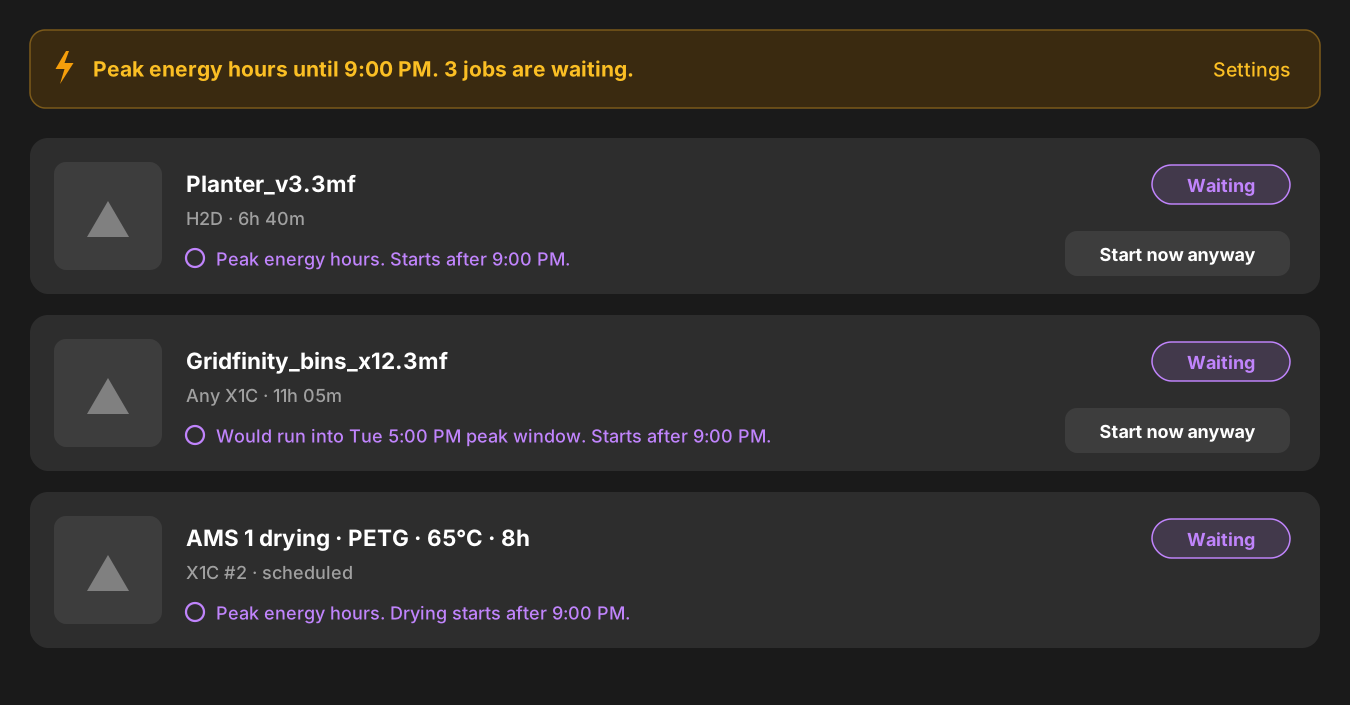
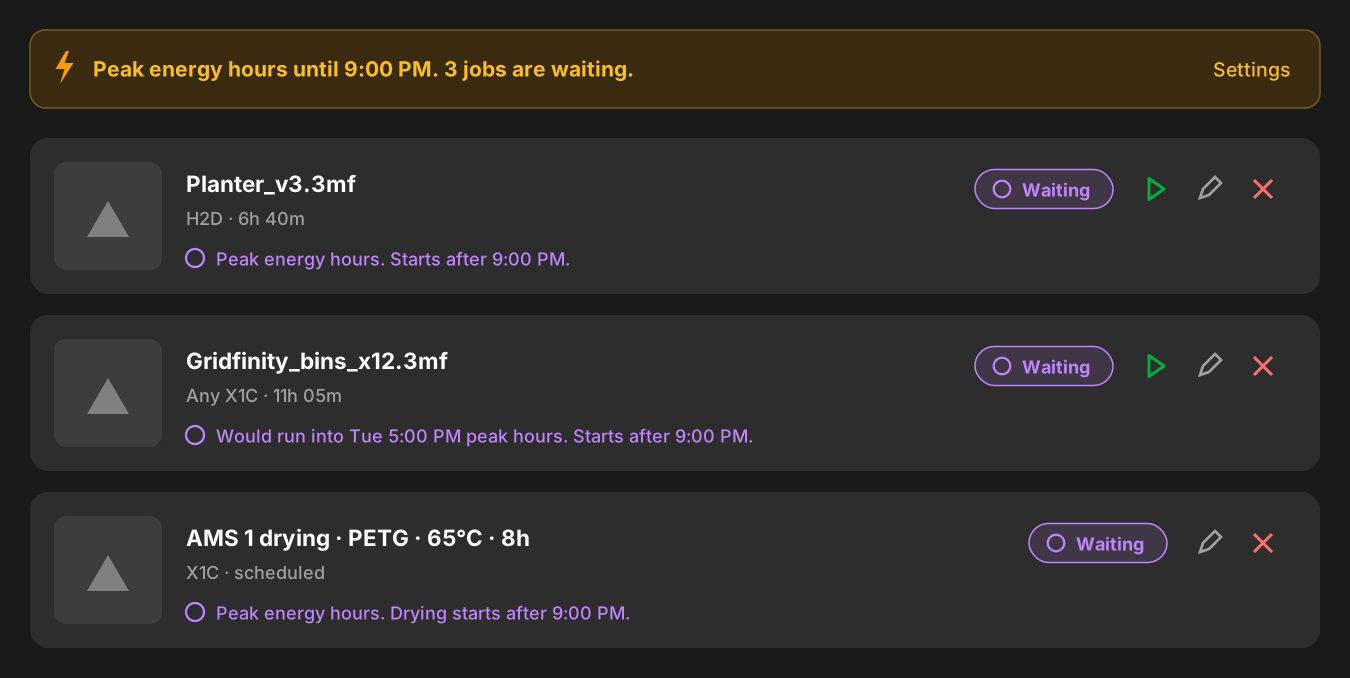
docs(#2639): apply design review
- American spelling throughout
- Settings: rename the Smart Plugs tab to Energy, with Smart Plugs and
  Peak Energy Scheduling sections
- Weekdays are 0 = Sunday (JS getDay order); prototype and tests updated
- New mockups: Home Assistant entity picker, Home Assistant queue banner
  with no end time, start-during-peak confirm dialog
- Override uses the existing start icon button and standard Button pair
- Time zone: server TZ only; drop the open question

diff --git a/backend/tests/unit/services/test_peak_energy_2639.py b/backend/tests/unit/services/test_peak_energy_2639.py
@@ -24,7 +24,8 @@ from backend.app.services.peak_energy import (
 )
 
 DENVER = ZoneInfo("America/Denver")
-WEEKDAYS = frozenset(range(5))
+# 0 = Sunday, so Monday-Friday is 1-5.
+WEEKDAYS = frozenset(range(1, 6))
 WEEKDAY_EVENINGS = PeakSchedule(windows=(PeakWindow(WEEKDAYS, time(17), time(21)),), zone=DENVER)
 
 
@@ -53,7 +54,7 @@ class TestActiveWindow:
         assert WEEKDAY_EVENINGS.next_start(local(*FRI, 22)) == local(2026, 11, 23, 17)
 
     def test_overnight_window_spans_midnight(self):
-        overnight = PeakSchedule(windows=(PeakWindow(frozenset({0}), time(22), time(6)),), zone=DENVER)
+        overnight = PeakSchedule(windows=(PeakWindow(frozenset({1}), time(22), time(6)),), zone=DENVER)
         # Tuesday 02:00 is inside Monday's 22:00-06:00 window.
         assert overnight.active_until(local(2026, 11, 17, 2)) == local(2026, 11, 17, 6)
 
@@ -65,7 +66,7 @@ class TestActiveWindow:
         assert split.active_until(local(*MON, 15)) == local(*MON, 21)
 
     def test_equal_start_and_end_is_a_full_day(self):
-        all_monday = PeakSchedule(windows=(PeakWindow(frozenset({0}), time(0), time(0)),), zone=DENVER)
+        all_monday = PeakSchedule(windows=(PeakWindow(frozenset({1}), time(0), time(0)),), zone=DENVER)
         assert all_monday.active_until(local(*MON, 12)) == local(2026, 11, 17, 0)
 
 
@@ -82,7 +83,7 @@ class TestDaylightSaving:
 
     def test_window_inside_the_spring_forward_gap_still_has_positive_length(self):
         # 02:00-03:00 does not exist on 2026-03-08 in Denver.
-        gap = PeakSchedule(windows=(PeakWindow(frozenset({6}), time(2), time(4)),), zone=DENVER)
+        gap = PeakSchedule(windows=(PeakWindow(frozenset({0}), time(2), time(4)),), zone=DENVER)
         [(start, end)] = gap.intervals(local(2026, 3, 8, 0), local(2026, 3, 8, 12))
         assert end > start
 
@@ -160,9 +161,20 @@ class TestEmptySchedule:
         assert decide_drying_start(empty, now) == Allow()
 
 
+class TestWeekdayNumbering:
+    def test_zero_is_sunday(self):
+        sunday_only = PeakSchedule(windows=(PeakWindow(frozenset({0}), time(9), time(10)),), zone=DENVER)
+        assert sunday_only.active_until(local(2026, 11, 22, 9, 30)) == local(2026, 11, 22, 10)
+        assert sunday_only.active_until(local(*MON, 9, 30)) is None
+
+    def test_six_is_saturday(self):
+        saturday_only = PeakSchedule(windows=(PeakWindow(frozenset({6}), time(9), time(10)),), zone=DENVER)
+        assert saturday_only.active_until(local(*SAT, 9, 30)) == local(*SAT, 10)
+
+
 class TestParseWindows:
     def test_parses_the_setting_format(self):
-        windows = parse_windows('[{"days": [0, 1, 2, 3, 4], "start": "17:00", "end": "21:00"}]')
+        windows = parse_windows('[{"days": [1, 2, 3, 4, 5], "start": "17:00", "end": "21:00"}]')
         assert windows == (PeakWindow(WEEKDAYS, time(17), time(21)),)
 
     def test_empty_string_means_no_windows(self):

diff --git a/backend/app/services/peak_energy.py b/backend/app/services/peak_energy.py
@@ -51,7 +51,9 @@ class DeferReason(StrEnum):
 class PeakWindow:
     """One recurring window: on each of ``days``, from ``start`` to ``end``.
 
-    ``days`` are Python weekdays (0 = Monday) on which the window *starts*.
+    ``days`` are the weekdays on which the window *starts*, 0 = Sunday through
+    6 = Saturday (the JavaScript ``Date.getDay()`` and cron numbering, which
+    the frontend already uses; Python's ``weekday()`` starts at Monday).
     ``end <= start`` means it ends the next day (22:00-06:00); ``end == start``
     means a full 24 hours.
     """
@@ -68,10 +70,10 @@ class PeakWindow:
 
     def occurrence_on(self, day: date, zone: tzinfo) -> tuple[datetime, datetime] | None:
         """The UTC interval this window covers when it starts on local ``day``."""
-        if day.weekday() not in self.days:
+        if sunday_first_weekday(day) not in self.days:
             return None
         end_day = day if self.end > self.start else day + timedelta(days=1)
-        # Combine in the local zone, then normalise through UTC. A wall time
+        # Combine in the local zone, then normalize through UTC. A wall time
         # that does not exist (spring-forward gap) comes out shifted by the
         # gap; an ambiguous one (fall-back) takes its first occurrence. Either
         # way the window keeps its wall-clock meaning on DST days.
@@ -81,6 +83,11 @@ class PeakWindow:
 
 
 Interval = tuple[datetime, datetime]
+
+
+def sunday_first_weekday(day: date) -> int:
+    """0 = Sunday ... 6 = Saturday."""
+    return (day.weekday() + 1) % 7
 
 
 def _merge(intervals: Iterable[Interval]) -> list[Interval]:
@@ -211,7 +218,8 @@ def should_stop_drying(schedule: PeakSchedule, now: datetime) -> bool:
 def parse_windows(raw: str) -> tuple[PeakWindow, ...]:
     """Parse the ``peak_energy_windows`` setting.
 
-    Format: a JSON list of ``{"days": [0-6, ...], "start": "HH:MM", "end": "HH:MM"}``.
+    Format: a JSON list of ``{"days": [0-6, ...], "start": "HH:MM", "end": "HH:MM"}``
+    with 0 = Sunday.
     An empty string means no windows. Raises ValueError with a message fit for
     a 422 response on anything malformed.
     """
@@ -229,7 +237,7 @@ def parse_windows(raw: str) -> tuple[PeakWindow, ...]:
             raise ValueError(f"window {i}: must be an object")
         days = entry.get("days")
         if not isinstance(days, list) or not all(isinstance(d, int) and not isinstance(d, bool) for d in days):
-            raise ValueError(f"window {i}: days must be a list of weekday numbers 0-6")
+            raise ValueError(f"window {i}: days must be a list of weekday numbers 0-6 (0 = Sunday)")
         windows.append(
             PeakWindow(
                 days=frozenset(days),

diff --git a/docs/design/peak-energy-scheduling.md b/docs/design/peak-energy-scheduling.md
@@ -22,9 +22,9 @@ hand.
    next window, until a gap it fits into.
 3. AMS drying (scheduled, queue auto-drying and humidity-triggered) does not
    start during a window, and can optionally be stopped when one begins and
-   finished afterwards.
+   finished afterward.
 4. The user always sees why a job is waiting and until when, and can override
-   it per job ("Start now anyway").
+   it per job with the queue's existing start button.
 5. Off by default; with it off, nothing behaves differently.
 
 ## Non-goals (v1)
@@ -38,7 +38,7 @@ hand.
 - Different schedules per printer or per location. One schedule for the whole
   install. (Open question 4.)
 - Choosing the cheapest slot from a price forecast. v1 is "avoid windows", not
-  "optimise cost".
+  "optimize cost".
 - Prints started outside the queue (from Bambu Studio, Handy, or the printer's
   screen). Bambuddy does not gate those today and won't start to.
 
@@ -55,10 +55,10 @@ hand.
 - *As a user who dries filament overnight*, my 8-hour drying run scheduled for
   6 pm starts at 9 pm. A drying run in progress at 5 pm stops and the remaining
   hours run after 9 pm.
-- *As a user in a hurry*, I press "Start now anyway" on a held job and it starts
+- *As a user in a hurry*, I press the start button on a held job, confirm, and it starts
   on the next scheduler pass.
 
-## Behaviour
+## Behavior
 
 ### Defining windows
 
@@ -71,8 +71,8 @@ A window is `{days, start, end}` where `days` are the weekdays the window
   17:00-21:00 behaves as one 14:00-21:00 period.
 - Windows are interpreted in the server's time zone (`TZ`, via
   `utils.local_time.local_zone()`), which is what the rest of Bambuddy already
-  uses for calendar reasoning. The settings card shows the zone so a container
-  without `TZ` (UTC) is obvious. (Open question 5.)
+  uses for calendar reasoning. There is no separate time zone setting. The
+  Energy tab shows the zone so a container without `TZ` (UTC) is obvious.
 - DST: windows keep their wall-clock meaning. A 17:00 window is 17:00 local on
   both sides of a change. A window starting inside a spring-forward gap is
   shifted by the gap; an ambiguous fall-back time takes its first occurrence.
@@ -107,10 +107,10 @@ pending item that is not `manual_start` and not `ignore_peak_energy`:
 
 - `POST /queue/{id}/start` on a held item during a window answers `409` with
   `code=peak_energy` and the window's end time, the same pattern as the
-  existing filament-deficit check. The UI then asks: **Start now anyway** or
-  **Start after peak**. "Anyway" retries with `ignore_peak_energy=true`, which
-  sets the item's new `ignore_peak_energy` flag; "after peak" just leaves it
-  queued.
+  existing filament-deficit check. The UI shows a confirm dialog with the
+  standard **Start after peak** (secondary) and **Start now** (primary)
+  buttons. "Start now" retries with `ignore_peak_energy=true`, which sets the
+  item's new `ignore_peak_energy` flag; "Start after peak" leaves it queued.
 - Items created by an explicit "print now" action on the printer card
   (`cleanup_library_after_dispatch`) are created with `ignore_peak_energy=true`,
   because the user asked for that printer, now. (Open question 2.)
@@ -186,7 +186,7 @@ Settings (key/value rows, like the existing drying and energy settings):
 |---|---|---|
 | `peak_energy_enabled` | bool | `false` |
 | `peak_energy_source` | `"windows" \| "homeassistant"` | `"windows"` |
-| `peak_energy_windows` | JSON string, list of `{"days":[0-6], "start":"HH:MM", "end":"HH:MM"}` (0 = Monday) | `""` |
+| `peak_energy_windows` | JSON string, list of `{"days":[0-6], "start":"HH:MM", "end":"HH:MM"}` (0 = Sunday, as JS `Date.getDay()`) | `""` |
 | `peak_energy_ha_entity` | str | `""` |
 | `peak_energy_ha_states` | str, comma-separated | `"peak,on"` |
 | `peak_energy_print_policy` | `"start_outside" \| "finish_before"` | `"start_outside"` |
@@ -217,33 +217,64 @@ No new table. No change to `scheduled_dryings`.
 - `waiting_reason`: the queue page currently shows this as raw text. For peak
   holds the scheduler writes a code, `peak_energy:<reason>:<iso until>`
   (`in_peak_window` or `would_overlap_peak`), and the frontend renders a
-  translated, localised message. Scheduled drying already uses short codes.
+  translated, localized message. Scheduled drying already uses short codes.
 
 ## UI
 
-### Settings: a "Peak energy hours" card next to "Auto-Drying"
+### Settings: rename "Smart Plugs" to "Energy"
 
-![Settings card mockup](peak-energy-scheduling/settings-card.png)
+The existing **Smart Plugs** tab becomes **Energy** and holds two sections:
+**Smart Plugs** (unchanged) and the new **Peak Energy Scheduling**. Power and
+cost belong together, and the plugs are what most users meter peak hours with.
+The tab id changes from `plugs` to `energy`; `?tab=plugs` and the settings
+search entries keep working as aliases so old links don't break.
 
-- One toggle to enable, the server time zone shown next to the windows.
-- Window rows with weekday chips and two 24-hour time inputs, `+ Add window`,
-  and a week strip that draws the merged result, so an overnight window or an
-  overlap is obvious at a glance.
+![Energy tab, manual windows](peak-energy-scheduling/energy-tab.png)
+
+- One toggle to enable, and a source selector: **Time windows** or
+  **Home Assistant**.
+- Window rows with weekday chips in Sunday-first order (S M T W T F S) and two
+  24-hour time inputs, `+ Add window`, and a week strip that draws the merged
+  result, so an overnight window or an overlap is obvious at a glance. The
+  server time zone is shown next to the windows.
 - The print policy as two radios with the margin under the second.
 - Two drying toggles.
-- With the Home Assistant source (not drawn), the window editor is replaced by
-  an entity picker and a "states that mean peak" field, and the
-  "finish before" radio is disabled with a hint.
+
+![Energy tab, Home Assistant source](peak-energy-scheduling/energy-tab-home-assistant.png)
+
+- With the Home Assistant source, the window editor is replaced by an entity
+  search that works like the one in the Add Smart Plug dialog (friendly name,
+  entity id and current state), limited to `select`, `input_select`,
+  `binary_sensor` and `input_boolean` entities. "States that mean peak" shows
+  the entity's own options as checkboxes (`on` for a binary entity). A live
+  line shows the entity's current state and whether jobs can start.
+- The "finish before" radio is disabled with a hint, because Home Assistant
+  can't tell us when the next peak starts.
 
 ### Queue: why a job waits, and the override
 
-![Queue mockup](peak-energy-scheduling/queue-waiting.png)
+![Queue, manual windows](peak-energy-scheduling/queue-waiting.png)
 
 - A banner while a window is active: "Peak energy hours until 9:00 PM. 3 jobs
   are waiting."
 - Held jobs use the existing purple **Waiting** badge with a translated reason
-  and time, and a **Start now anyway** button.
+  and time.
+- The override is the row's existing ▶ start icon button, unchanged in style.
+  During peak it opens the confirm dialog below instead of starting at once.
 - Held scheduled drying runs show the same reason on their card.
+
+![Queue, Home Assistant source](peak-energy-scheduling/queue-waiting-home-assistant.png)
+
+With the Home Assistant source there is no known end time, so the banner reads
+"Peak energy hours, according to Home Assistant. 3 jobs are waiting." and each
+badge says "Starts when Home Assistant reports off-peak" instead of a time.
+
+![Start during peak dialog](peak-energy-scheduling/start-during-peak-dialog.png)
+
+The dialog uses the app's standard modal footer and `Button` variants:
+**Start after peak** is `secondary` and **Start now** is `primary`, the same
+pair the queue's other dialogs use. With the Home Assistant source the text
+says "until Home Assistant reports off-peak" instead of a time.
 
 ### Timeline: shade the windows
 
@@ -261,7 +292,7 @@ real screenshots go in the wiki PR with the implementation.
 Small, reviewable PRs, each with tests and every locale updated:
 
 1. **Decision core** (this branch): `services/peak_energy.py`, pure, typed,
-   unit-tested. No behaviour change.
+   unit-tested. No behavior change.
 2. **Settings and print queue**: settings keys and validation, the
    `ignore_peak_energy` column, the scheduler hook after the
    `scheduled_time` check, the `/start` 409, `/peak-energy/status`, the settings
@@ -300,7 +331,5 @@ Small, reviewable PRs, each with tests and every locale updated:
    be per-printer opt-in, with a warning about adhesion.
 4. **Per-printer or per-location schedules**: needed by anyone? The data model
    could later add an optional `printer_ids` list per window.
-5. **Time zone**: use the server `TZ` (proposed, matches `local_time`), or add
-   a setting like `finance_budget_reset_timezone`?
-6. **Notifications**: should holding a job send one ("3 jobs held until
+5. **Notifications**: should holding a job send one ("3 jobs held until
    9:00 PM"), or is the queue banner enough? Proposed: no notification in v1.
